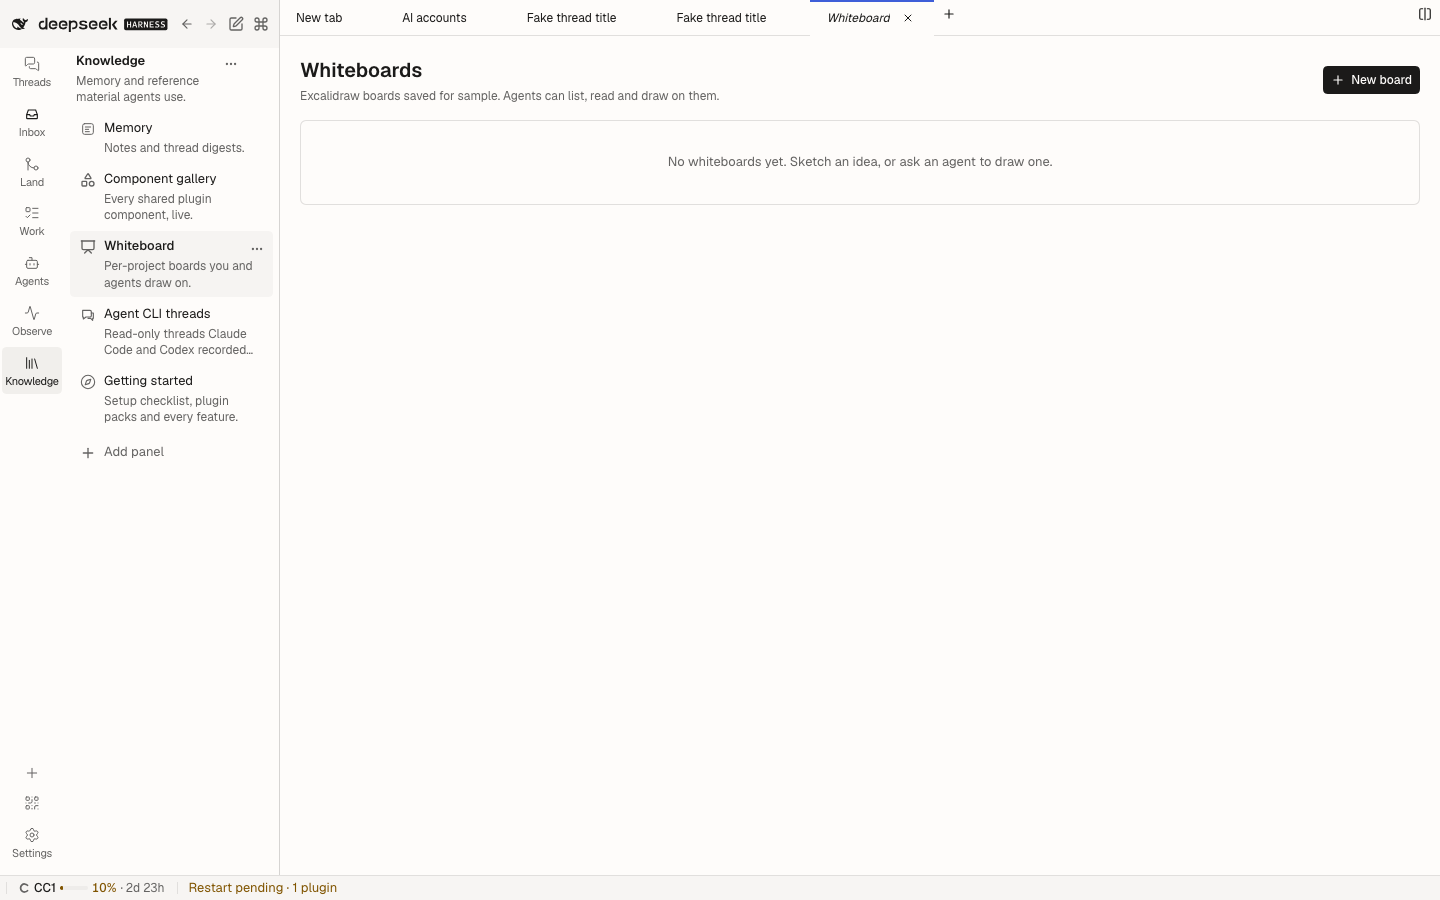
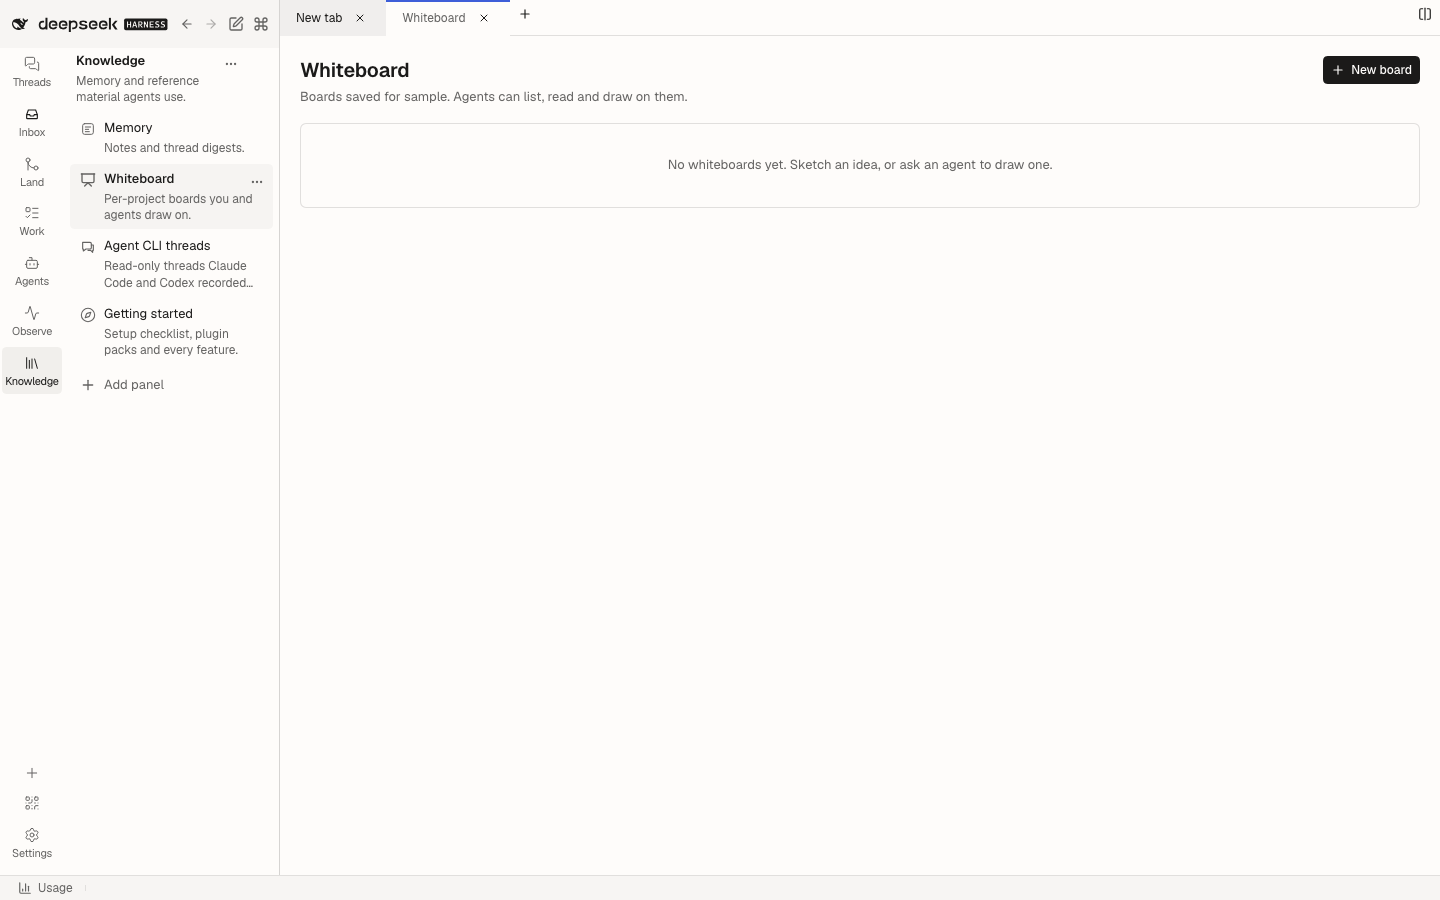
docs(whiteboard): refresh the Whiteboard page screenshot
Whiteboard moved onto the kit Page: h1 Whiteboard, the project in the description and New board on the title's line. The capture and its caption still said Whiteboards.

diff --git a/plugins/@dshfiles/whiteboard/README.md b/plugins/@dshfiles/whiteboard/README.md
@@ -6,7 +6,7 @@
 DSH Host, one list per registered project. Create a board, draw (autosaved), rename it, delete it to **Recently
 deleted** and restore it. Agents get the same verbs as tools and can draw from Mermaid.
 
-![The Whiteboards page: one project's boards with rename and delete](docs/screenshots/project-whiteboards.png)
+![The Whiteboard page: one project's boards with rename and delete](docs/screenshots/project-whiteboards.png)
 
 ## Why Excalidraw, and why owned
 
